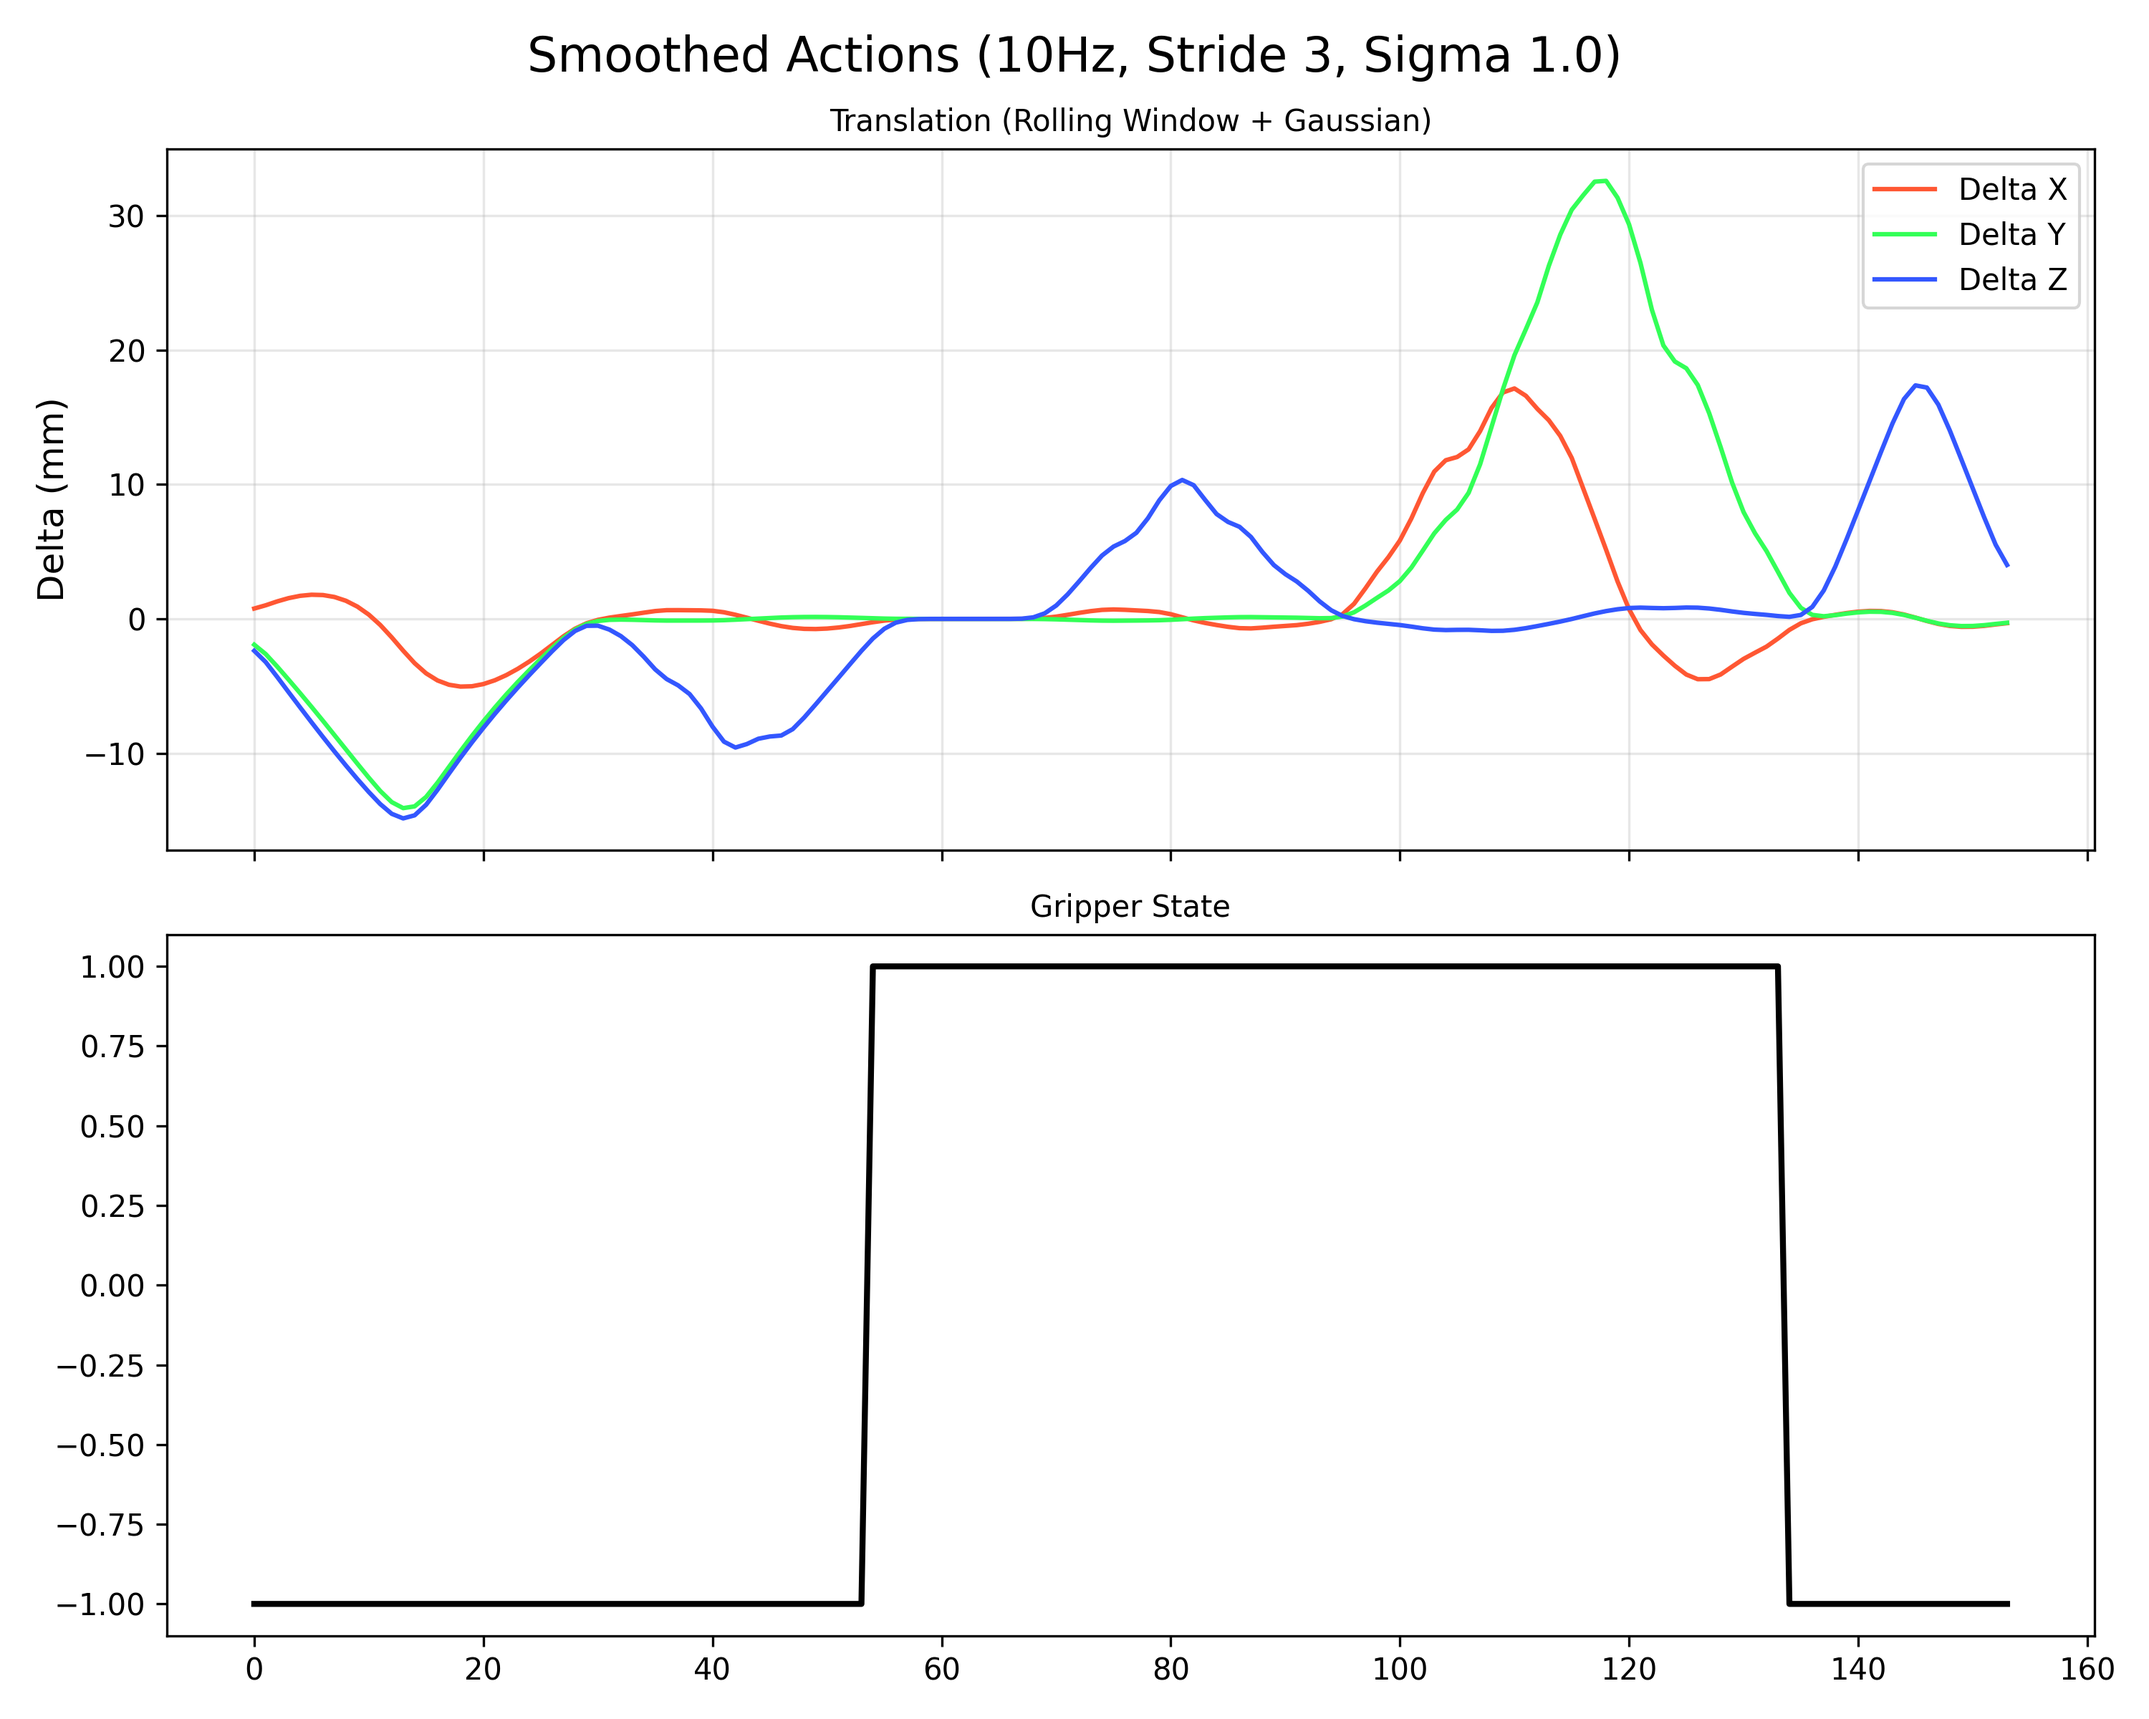
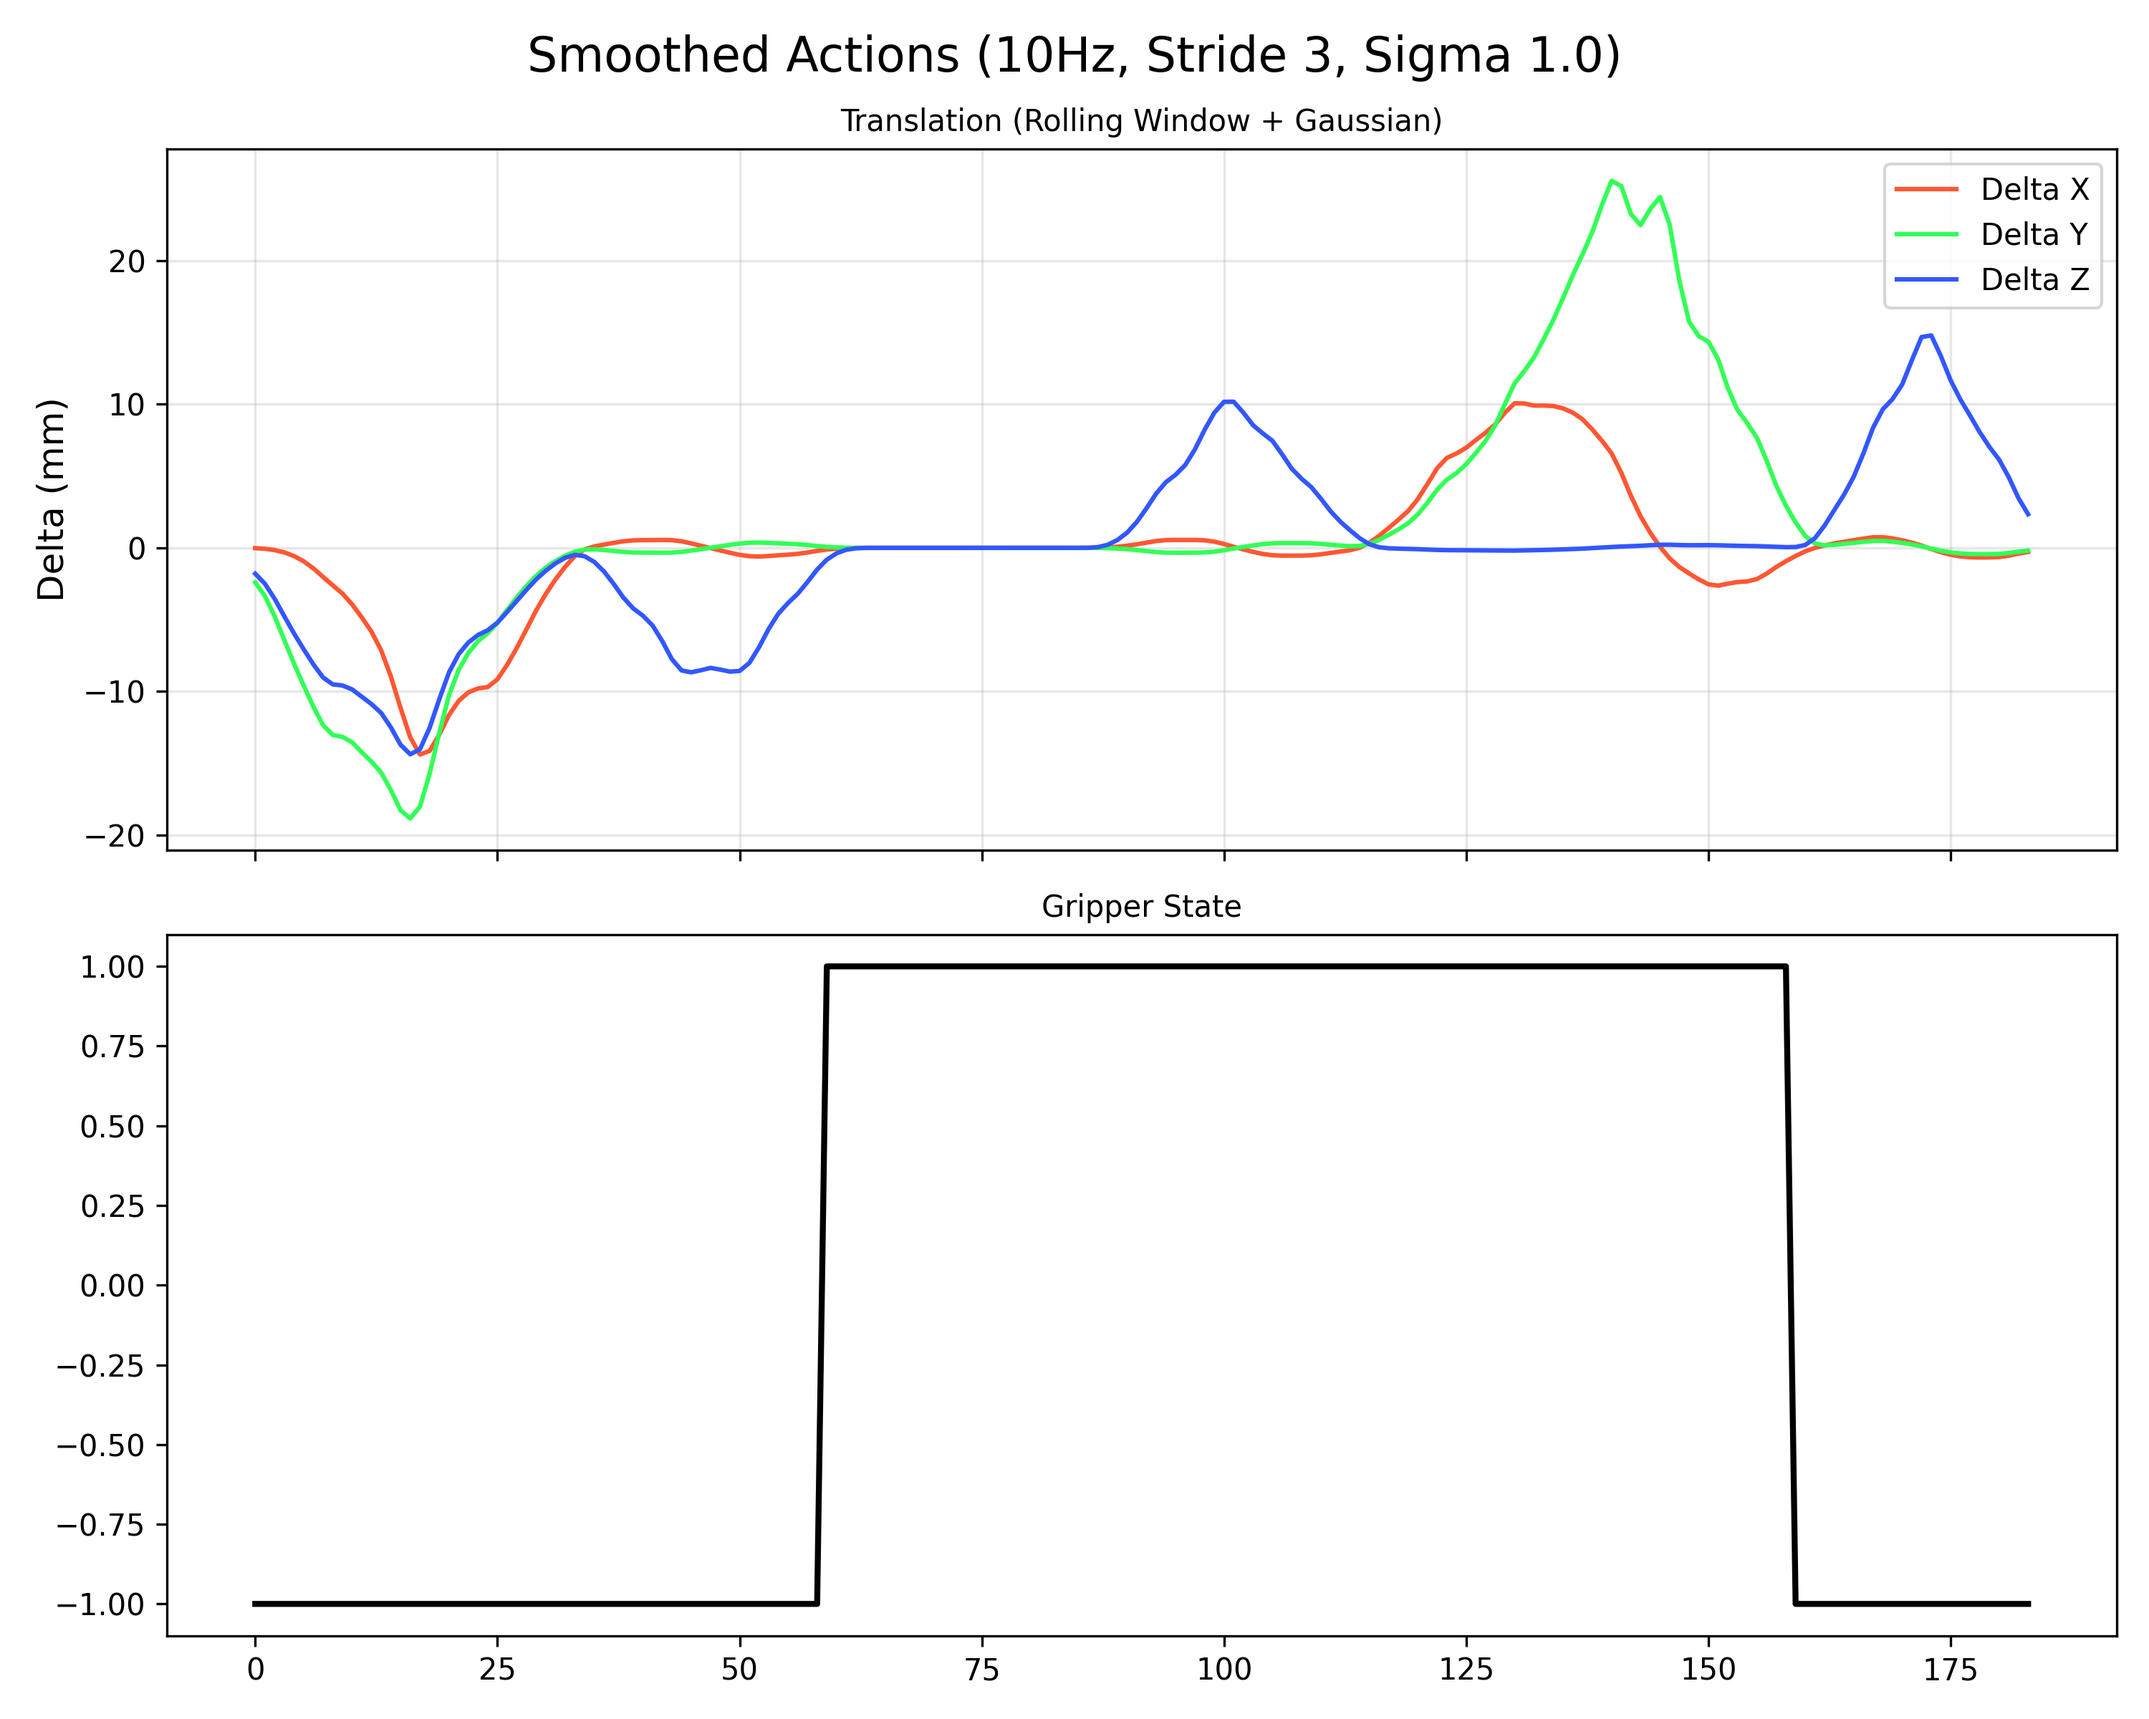
data recorded

diff --git a/record_simple.py b/record_simple.py
@@ -10,14 +10,14 @@ import DobotDllType as dType
 # --- CONFIGURATION ---
 DATASET_DIR = "dataset_hdf5/simple_session"
 CAM_INDEX = 1
-EXPOSURE_VAL = -7
+EXPOSURE_VAL = -6
 
 # Workspace
 Z_SAFE = -30.0   
 Z_PICK = -75.0  
 Z_HOVER = 50.0 
 
-PICK_ZONE  = {"x": (80, 160), "y": (-120, 0)}
+PICK_ZONE  = {"x": (100, 160), "y": (-120, 0)}
 PLACE_ZONE = {"x": (140, 220), "y": (80, 200)}
 HOME_ZONE  = {"x": (120, 180), "y": (0, 80)}
 
@@ -110,7 +110,7 @@ def run_simple_episode():
     move_ptp(pick_x, pick_y, Z_SAFE)      
     move_ptp(pick_x, pick_y, Z_PICK)      
     set_suction(1.0)                      
-    dType.SetWAITCmd(api, 500, isQueued=1)
+    dType.SetWAITCmd(api, 1000, isQueued=1)
     move_ptp(pick_x, pick_y, Z_SAFE)      
     move_ptp(place_x, place_y, Z_SAFE)    
     move_ptp(place_x, place_y, Z_SAFE)    

diff --git a/camera_test.py b/camera_test.py
@@ -13,7 +13,7 @@ print("Initializing cameras...")
 for index in camera_indexes:
     # Change the line inside the loop to:
     cap = cv2.VideoCapture(index, cv2.CAP_DSHOW)
-    exp_val = -7
+    exp_val = -6
     if exp_val != 0:
         cap.set(cv2.CAP_PROP_AUTO_EXPOSURE, 1) 
         cap.set(cv2.CAP_PROP_EXPOSURE, exp_val)

diff --git a/visualize_episode_h5py.py b/visualize_episode_h5py.py
@@ -7,7 +7,7 @@ import pandas as pd
 # --- CONFIGURATION ---
 DATASET_DIR = "dataset_hdf5"
 JOB_NAME = "simple_session"
-EPISODE_NAME = "episode_001.h5" 
+EPISODE_NAME = "episode_050.h5" 
 CSV_OUTPUT = "episode_analysis.csv"
 
 EPISODE_FILE = os.path.join(DATASET_DIR, JOB_NAME, EPISODE_NAME)

diff --git a/sketch_deltas.py b/sketch_deltas.py
@@ -4,7 +4,7 @@ import matplotlib.pyplot as plt
 import os
 
 # --- CONFIGURATION ---
-FILE_PATH = "dataset_hdf5/simple_session/episode_001.h5" 
+FILE_PATH = "dataset_hdf5/simple_session/episode_050.h5" 
 OUTPUT_PLOT = "debug_rolling_stride.png"
 
 RECORDING_HZ = 10 
